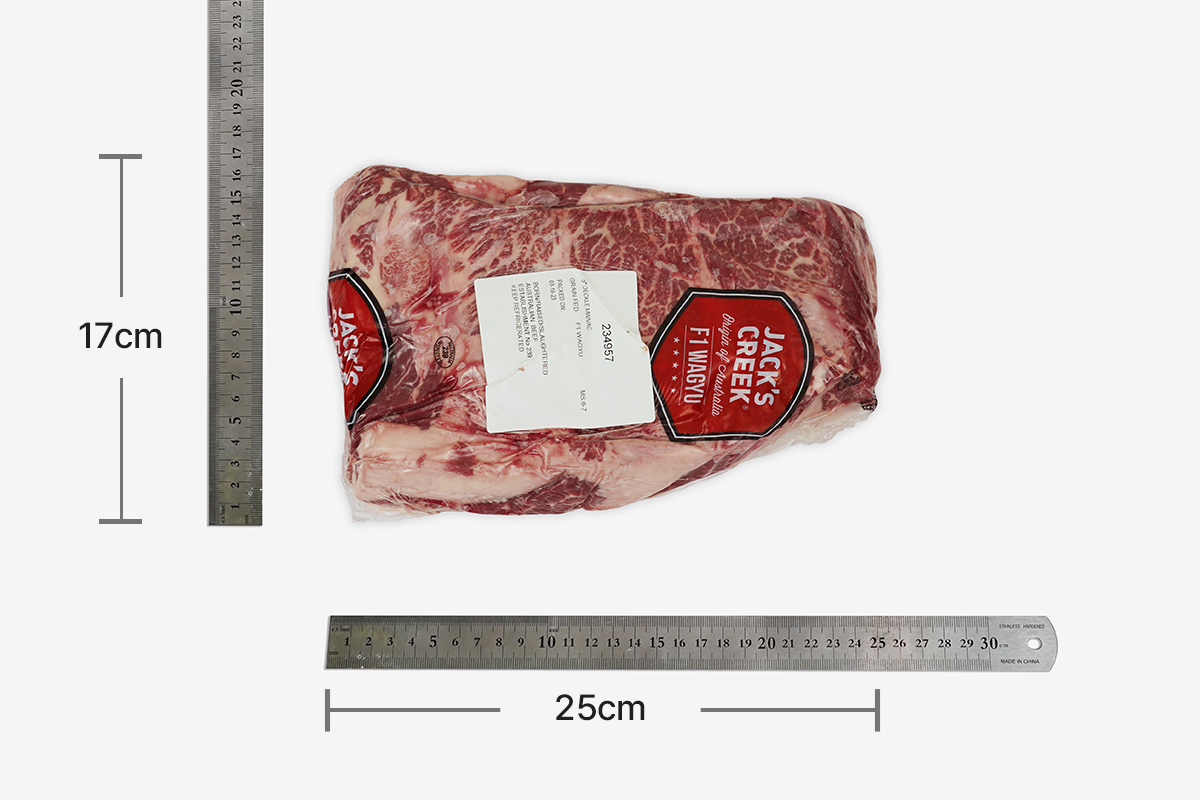
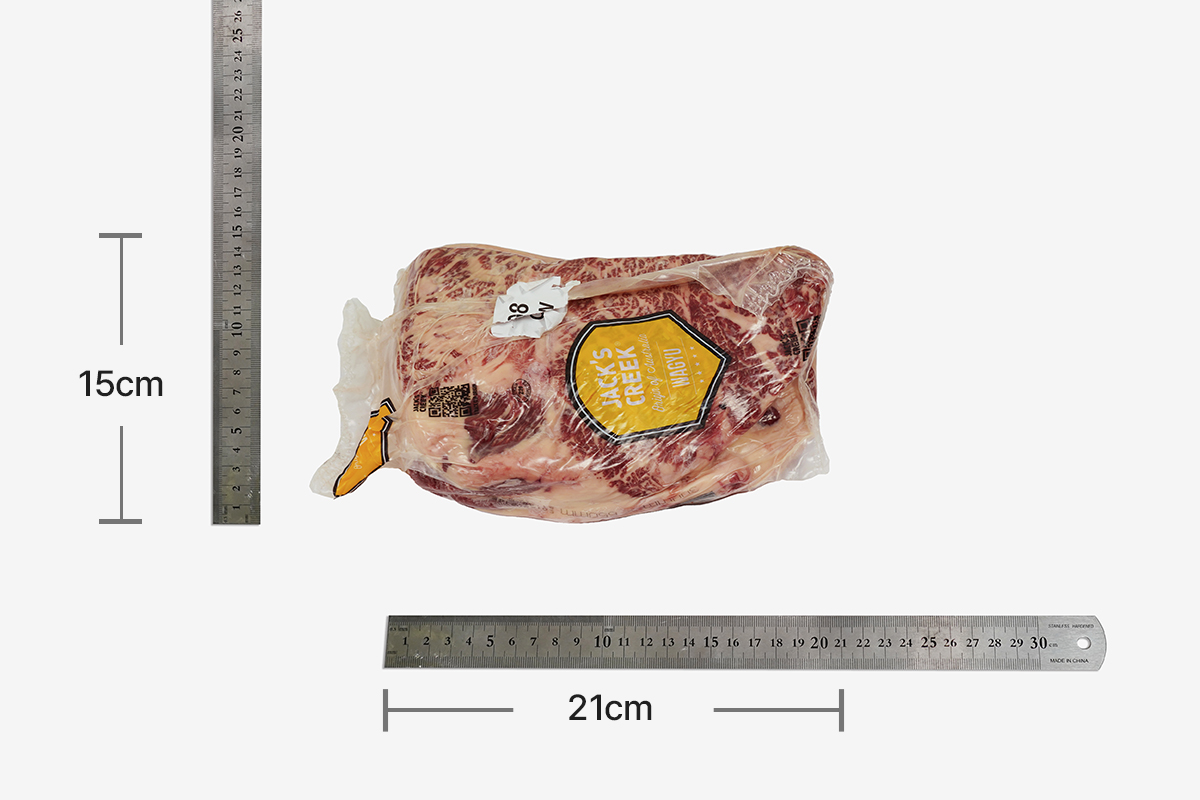
add jacs's creek product

diff --git a/subpage/product-list/jacksCreekProductAll.html b/subpage/product-list/jacksCreekProductAll.html
@@ -107,8 +107,8 @@
     <script>
         //items
         const products = [
-            { id: 0, thumb: '/subpage/product-list/img/goods/jacks/00_deckle_thumb.png', brand: 'JACK&rsquo;S CREEK', title: '데클', storage: '냉장' , marble: 'MB 6-7', usage: '구이' , price: '30,000~', link: '/subpage/product-list/allProduct/jacksCreekProduct/jacksPrd-001.html' , filter1: 'cold', filter2: 'mb6-7', filter3: 'roast' },
-            { id: 1, thumb: '/subpage/product-list/img/goods/jacks/01_deckle_thumb.png', brand: 'JACK&rsquo;S CREEK', title: '데클', storage: '냉장' , marble: 'MB 8-9', usage: '구이' , price: '30,000~', link: '/subpage/product-list/allProduct/jacksCreekProduct/jacksPrd-001.html' , filter1: 'cold', filter2: 'mb6-7', filter3: 'roast' },
+            { id: 0, thumb: '/subpage/product-list/img/goods/jacks/00_deckle_thumb.png', brand: 'JACK&rsquo;S CREEK', title: '데클', storage: '냉장' , marble: 'MB 6-7', usage: '구이' , price: '30,000~', link: '/subpage/product-list/allProduct/jacksCreekProduct/jacksPrd-000.html' , filter1: 'cold', filter2: 'mb6-7', filter3: 'roast' },
+            { id: 1, thumb: '/subpage/product-list/img/goods/jacks/01_deckle_thumb.png', brand: 'JACK&rsquo;S CREEK', title: '데클', storage: '냉장' , marble: 'MB 8-9', usage: '구이' , price: '30,000~', link: '/subpage/product-list/allProduct/jacksCreekProduct/jacksPrd-001.html' , filter1: 'cold', filter2: 'mb8-9', filter3: 'roast' },
             { id: 2, thumb: '/subpage/product-list/img/goods/jacks/02_intercostal_thumb.png', brand: 'JACK&rsquo;S CREEK', title: '갈비', storage: '냉장' , marble: 'MB 8-9', usage: '구이' , price: '30,000~', link: '/subpage/product-list/allProduct/jacksCreekProduct/jacksPrd-001.html' , filter1: 'cold', filter2: 'mb8-9', filter3: 'roast' },
             { id: 3, thumb: '/subpage/product-list/img/goods/jacks/03_chuckeyeroll_thumb.png', brand: 'JACK&rsquo;S CREEK', title: '척아이롤', storage: '냉장' , marble: 'MB 6-7', usage: '구이' , price: '30,000~', link: '/subpage/product-list/allProduct/jacksCreekProduct/jacksPrd-001.html' , filter1: 'cold', filter2: 'mb6-7', filter3: 'roast' },
             { id: 4, thumb: '/subpage/product-list/img/goods/jacks/04_chuckeyeroll_thumb.png', brand: 'JACK&rsquo;S CREEK', title: '척아이롤', storage: '냉장' , marble: 'MB 8-9', usage: '구이' , price: '30,000~', link: '/subpage/product-list/allProduct/jacksCreekProduct/jacksPrd-001.html' , filter1: 'cold', filter2: 'mb8-9', filter3: 'roast' },

diff --git a/subpage/product-list/allProduct/jacksCreekProduct/jacksPrd-000.html b/subpage/product-list/allProduct/jacksCreekProduct/jacksPrd-000.html
@@ -47,8 +47,9 @@
     <!-- 상품 -->
     <section class="goods-prd-wrapper">
         <div class="goods-prd-items">
-            <div><img src="/subpage/product-list/img/goods/jacks/01_deckle_thumb.png" alt="데클 mb 8-9 썸네일"></div>
-            <div><img src="/subpage/product-list/img/goods/jacks/01_deckle_thumb_box.png" alt="데클 mb 8-9 썸네일"></div>
+            <div><img src="/subpage/product-list/img/goods/jacks/00_deckle_thumb.png" alt=""></div>
+            <div><img src="/subpage/product-list/img/goods/jacks/00_deckle_thumb_02.png" alt=""></div>
+            <div><img src="/subpage/product-list/img/goods/jacks/jackscreek_box_thumb.jpg" alt=""></div>
         </div>
         <div class="goods-prd-summary">
             <h5 class="prd-brand">[JACK'S CREEK]</h5>
@@ -76,10 +77,10 @@
             </ul>
             <div class="tabcontent">
                 <div id="tab01">
-                    <img src="/subpage/product-list/img/goods/jacks/01_deckle_01.jpg" alt="데클_상세이미지">
-                    <img src="/subpage/product-list/img/goods/jacks/01_deckle_02.jpg" alt="데클_상세이미지">
-                    <img src="/subpage/product-list/img/goods/jacks/01_deckle_03.jpg" alt="데클_상세이미지">
-                    <img src="/subpage/product-list/img/goods/jacks/01_deckle_04.jpg" alt="데클_상세이미지">
+                    <img src="/subpage/product-list/img/goods/jacks/00_deckle_01.jpg" alt="데클_상세이미지">
+                    <img src="/subpage/product-list/img/goods/jacks/00_deckle_02.jpg" alt="데클_상세이미지">
+                    <img src="/subpage/product-list/img/goods/jacks/00_deckle_03.jpg" alt="데클_상세이미지">
+                    <img src="/subpage/product-list/img/goods/jacks/00_deckle_04.jpg" alt="데클_상세이미지">
                     <div class="info">
                         <p>※ 해당 상세페이지는 대표 상품으로 작성되었으며, 원물 특성상 규격 및 중량 등 차이가 있을 수 있습니다.</p>
                         <p>※ 수입육의 경우 원물 수급에 따라 수입자 및 생산자가 변동될 수 있습니다.</p>
